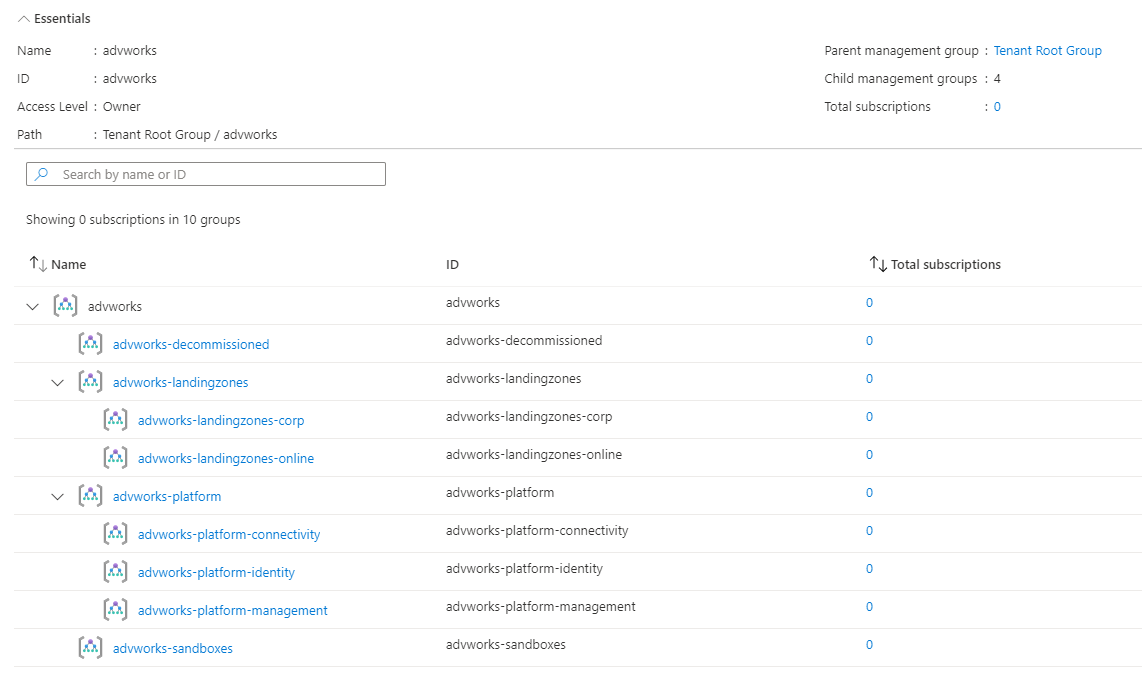
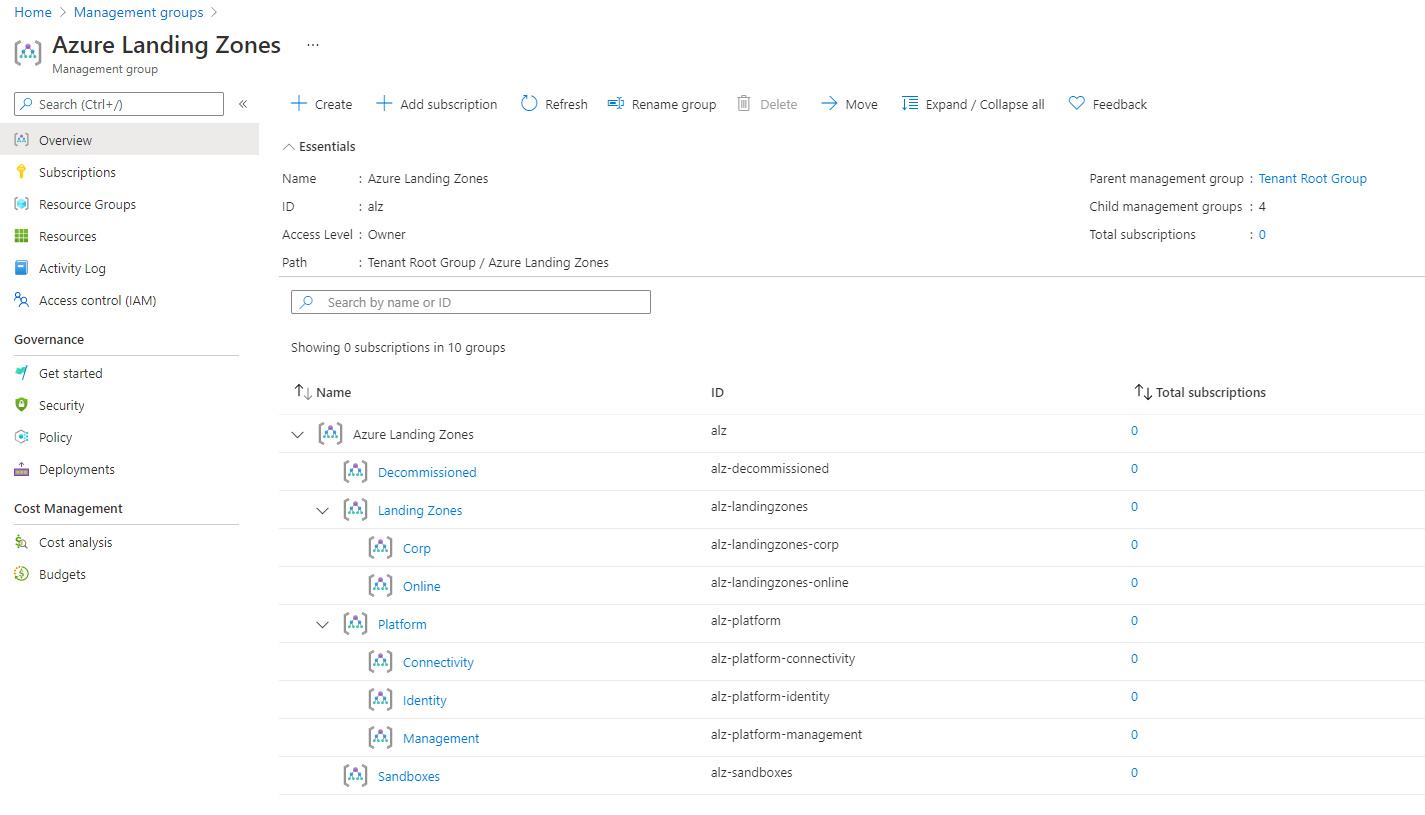
Add display name for each MG & define ids and names in variables

diff --git a/infra-as-code/bicep/modules/management-groups/README.md b/infra-as-code/bicep/modules/management-groups/README.md
@@ -20,16 +20,15 @@ The module requires the following required input parameters.
  Paramenter | Description | Requirement | Example
 ----------- | ----------- | ----------- | -------
 parParentManagementGroupId | The management group that will be used to create all management groups.  Specific the management group id. | Must existing in Azure. | When deployed to **Tenant Root Group**: `Azure Active Directory Tenant Id`, or when deployed to **another management group**: `Management Group ID`
-parTopLevelManagementGroupPrefix | Prefix for the management structure.  This management group will be created as part of the deployment. | Minimum two characters | `advworks` |
+parTopLevelManagementGroupPrefix | Prefix for the management structure.  This management group will be created as part of the deployment. | Minimum two characters | `alz` |
+parTopLevelManagementGroupDisplayName | Display name for top level management group prefix.  This name will be applied to the management group prefix defined in `parTopLevelManagementGroupPrefix` parameter. | Minimum two characters | `Azure Landing Zones` |
 
 
 ## Deployment
 
-Module can be deployed through Azure CLI using `az deployment mg create` command.
+**Example Deployment**
 
-**Example Deployment through Azure CLI**
-
-In this example, the management group structure is being deployed to the Tenant Root Group based on the Azure Active Directory Id `343ddfdb-bef5-46d9-99cf-ed67d5948783`.  This value should be replaced with that of your organization.  The parameters file provies an example of all required parameters.
+In this example, the management group structure is being deployed to the `Tenant Root Group` based on the Azure Active Directory Tenant Id `343ddfdb-bef5-46d9-99cf-ed67d5948783`.  This value should be replaced with that of your organization.  The parameters file provies an example of all required parameters.
 
 ### Azure CLI
 ```bash
